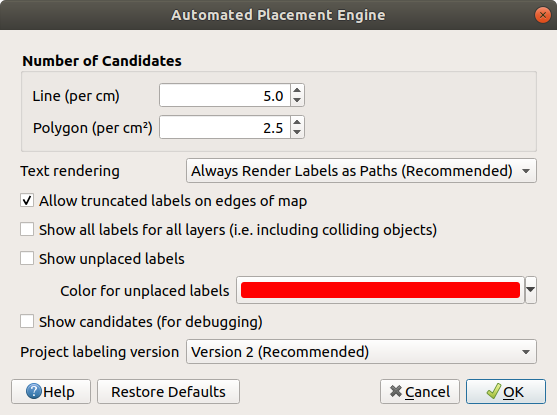
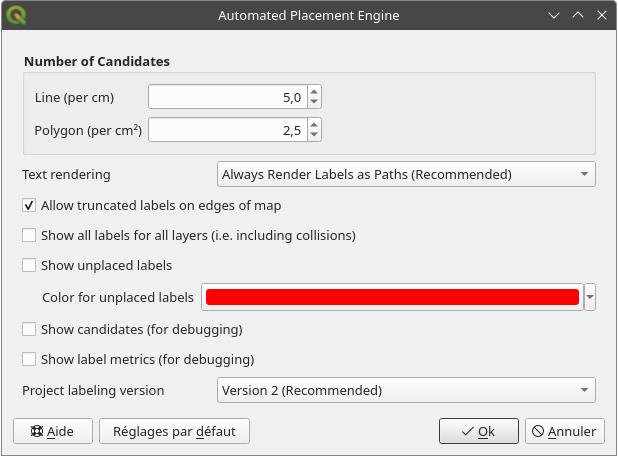
Update label engine options and labels export option

Changed region(s): [[0.0305, 0.1157, 0.9767, 0.7518], [0.0, 0.7518, 1.0, 1.0], [0.0, 0.0, 1.0, 0.0867]]

diff --git a/docs/user_manual/working_with_vector/vector_properties.rst b/docs/user_manual/working_with_vector/vector_properties.rst
@@ -1476,15 +1476,27 @@ options:
   polygon features the number of possible labels placement based on their size.
   The longer or wider a feature is, the more candidates it has, and its labels
   can be better placed with less risk of collision.
+
+.. _render_labels_text:
+
 * :guilabel:`Text rendering`: sets the default value for label rendering
   widgets when :ref:`exporting a map canvas <exportingmapcanvas>` or
   :ref:`a layout <create-output>` to PDF or SVG.
   If :guilabel:`Always render labels as text` is selected then labels can be
   edited in external applications (e.g. Inkscape) as normal text. BUT the side
   effect is that the rendering quality is decreased, and there are issues with
-  rendering when certain text settings like buffers are in place. That's why
-  :guilabel:`Always render labels as paths (recommended)` which exports labels
-  as outlines, is recommended.
+  rendering when certain text settings like buffers are in place.
+  That's why :guilabel:`Always render labels as paths (recommended)`
+  which exports labels as outlines but guarantees complete compatibility
+  with the full range of formatting options available, is recommended.
+  With :guilabel:`Prefer rendering labels as text` option, labels are rendered as text objects,
+  unless doing so results in rendering artifacts or poor quality rendering (depending on text format settings).
+
+  .. note:: When rendering labels as text to a vector based device (e.g. PDF or SVG),
+    care must be taken to ensure that the required fonts are available to users
+    when opening the created files, or default fallback fonts will be used to display the output instead.
+    (Although PDF exports MAY automatically embed some fonts when possible, depending on the user’s platform).
+
 * |checkbox| :guilabel:`Allow truncated labels on edges of map`: controls
   whether labels which fall partially outside of the map extent should be
   rendered. If checked, these labels will be shown (when there's no way to
@@ -1502,6 +1514,8 @@ options:
   Like the label says, it's useful only for debugging and testing the effect different
   labeling settings have. This could be handy for a better manual placement with
   tools from the :ref:`label toolbar <label_toolbar>`.
+* |unchecked| :guilabel:`Show label metrics (for debugging)`:
+  displays the text bounds of the label in red and baselines in blue
 * :guilabel:`Project labeling version`: QGIS supports two different versions of
   label automatic placement:
 

diff --git a/docs/user_manual/print_composer/create_output.rst b/docs/user_manual/print_composer/create_output.rst
@@ -175,14 +175,8 @@ To export a layout as SVG:
      any redundant vertices which are not discernably different at the export
      resolution (e.g. if the export resolution is ``300 dpi``, vertices that are
      less than ``1/600 inch`` apart will be removed).
-   * Set the :guilabel:`Text export`: controls whether text labels are exported
-     as proper text objects (:guilabel:`Always export texts as text
-     objects`) or as paths only (:guilabel:`Always export texts as paths`).
-     If they are exported as text objects, they can be edited in external
-     applications (e.g. Inkscape) as normal text. BUT the side effect is that
-     the rendering quality is reduced, AND there are issues with rendering when
-     certain text settings like buffers are in place. That’s why exporting as
-     paths is recommended.
+   * Set the :guilabel:`Text export`: controls whether text labels are always
+     or preferably exported as :ref:`text or outline objects <render_labels_text>`.
    * Apply |checkbox| :guilabel:`Crop to content` :ref:`option <crop_to_content>`
    * |unchecked| :guilabel:`Disable tiled raster layer exports`: When exporting
      files, QGIS uses a built-in raster layer tiled rendering that saves memory.
@@ -237,14 +231,8 @@ To export a layout as PDF:
      is on the first page.
    * |checkbox| :guilabel:`Export RDF metadata` of the document such as the
      title, author, date, description...
-   * Set the :guilabel:`Text export`: controls whether text labels are exported
-     as proper text objects (:guilabel:`Always export texts as text
-     objects`) or as paths only (:guilabel:`Always export texts as paths`).
-     If they are exported as text objects then they can be edited in external
-     applications (e.g. Inkscape) as normal text. BUT the side effect is that
-     the rendering quality is decreased, AND there are issues with rendering when
-     certain text settings like buffers are in place. That’s why exporting as
-     paths is recommended.
+   * Set the :guilabel:`Text export`: controls whether text labels are always
+     or preferably exported as :ref:`text or outline objects <render_labels_text>`.
    * Control the PDF :guilabel:`Image compression` using:
    
      * :guilabel:`Lossy (JPEG)`, which is the default compression mode

diff --git a/docs/user_manual/map_views/map_view.rst b/docs/user_manual/map_views/map_view.rst
@@ -1291,24 +1291,15 @@ In the dialog that opens:
        https://north-road.com/2019/09/03/qgis-3-10-loves-geospatialpdf/.
 
    * :guilabel:`Rasterize map`
-   * |checkbox| :guilabel:`Simplify geometries to reduce output file
-     size`:
+   * |checkbox| :guilabel:`Simplify geometries to reduce output file size`:
      Geometries will be simplified while exporting the map by removing
      vertices that are not discernibly different at the export
      resolution (e.g. if the export resolution is ``300 dpi``, vertices
      that are less than ``1/600 inch`` apart will be removed).
      This can reduce the size and complexity of the export file (very
      large files can fail to load in other applications).
-   * Set the :guilabel:`Text export`: controls whether text labels are
-     exported as proper text objects (:guilabel:`Always export texts
-     as text objects`) or as paths only (:guilabel:`Always export texts
-     as paths`).
-     If they are exported as text objects then they can be edited in
-     external applications (e.g. Inkscape) as normal text.
-     BUT the side effect is that the rendering quality is decreased,
-     AND there are issues with rendering when certain text settings
-     like buffers are in place.
-     That’s why exporting as paths is recommended.
+   * Set the :guilabel:`Text export`: controls whether text labels are always
+     or preferably exported as :ref:`text or outline objects <render_labels_text>`.
 
 #. Click :guilabel:`Save` to select file location, name and format.
 
